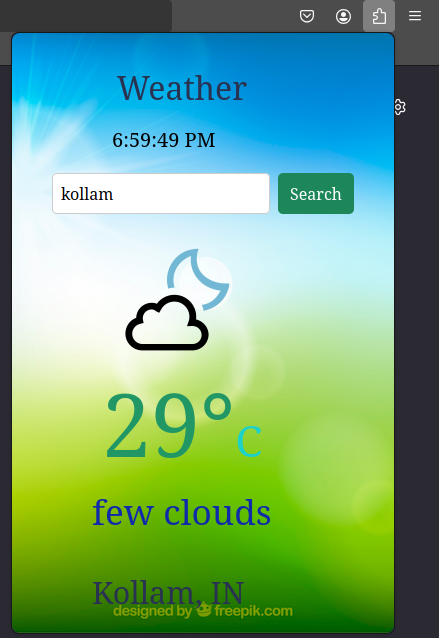
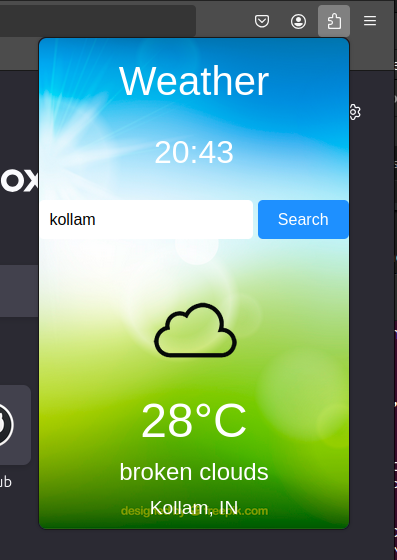
updated code

diff --git a/Task -07/index.js b/Task -07/index.js
@@ -1,4 +1,3 @@
-
 const iconElement = document.querySelector(".weather-icon");
 const tempElement = document.querySelector(".temperature-value p");
 const descElement = document.querySelector(".temperature-description p");
@@ -6,52 +5,18 @@ const locationElement = document.querySelector(".location p");
 const notificationElement = document.querySelector(".notification");
 const searchInput = document.querySelector("#search-input");
 const searchButton = document.querySelector("#search-button");
+const timeElement = document.querySelector(".time p");
 
 const weather = {};
-weather.temperature = {
-  unit: "celsius",
-};
 
 const KELVIN = 273;
 const key = "82005d27a116c2880c8f0fcb866998a0";
 
-// Check if browser supports geolocation
-if ("geolocation" in navigator) {
-  navigator.geolocation.getCurrentPosition(setPosition, showError);
-} else {
-  notificationElement.style.display = "block";
-  notificationElement.innerHTML = "<p>Browser doesn't support geolocation</p>";
-}
-
-// Set user position
-function setPosition(position) {
-  let latitude = position.coords.latitude;
-  let longitude = position.coords.longitude;
-
-  getWeatherByCoords(latitude, longitude);
-}
-
-// Show error if geolocation fails
-function showError(error) {
-  notificationElement.style.display = "block";
-  notificationElement.innerHTML = `<p>${error.message}</p>`;
-}
-
-// Fetch weather using latitude and longitude
-function getWeatherByCoords(latitude, longitude) {
-  let api = `http://api.openweathermap.org/data/2.5/weather?lat=${latitude}&lon=${longitude}&appid=${key}`;
-
-  fetchWeather(api);
-}
-
-// Fetch weather using city name
 function getWeatherByCity(city) {
-  let api = `http://api.openweathermap.org/data/2.5/weather?q=${city}&appid=${key}`;
-
+  const api = `http://api.openweathermap.org/data/2.5/weather?q=${city}&appid=${key}`;
   fetchWeather(api);
 }
 
-// Fetch weather data from API
 function fetchWeather(api) {
   fetch(api)
     .then((response) => response.json())
@@ -62,7 +27,7 @@ function fetchWeather(api) {
         return;
       }
       notificationElement.style.display = "none";
-      weather.temperature.value = Math.round(data.main.temp - KELVIN);
+      weather.temperature = Math.round(data.main.temp - KELVIN);
       weather.description = data.weather[0].description;
       weather.iconId = data.weather[0].icon;
       weather.city = data.name;
@@ -76,15 +41,20 @@ function fetchWeather(api) {
     });
 }
 
-// Display weather to UI
 function displayWeather() {
   iconElement.innerHTML = `<img src="icons/${weather.iconId}.png"/>`;
-  tempElement.innerHTML = `${weather.temperature.value}°<span>C</span>`;
+  tempElement.innerHTML = `${weather.temperature}°<span>C</span>`;
   descElement.innerHTML = weather.description;
   locationElement.innerHTML = `${weather.city}, ${weather.country}`;
 }
 
-// Search functionality
+function setTime() {
+  const now = new Date();
+  const hours = now.getHours().toString().padStart(2, "0");
+  const minutes = now.getMinutes().toString().padStart(2, "0");
+  timeElement.textContent = `${hours}:${minutes}`;
+}
+
 searchButton.addEventListener("click", () => {
   const city = searchInput.value.trim();
   if (city) {
@@ -93,19 +63,5 @@ searchButton.addEventListener("click", () => {
 });
 
 document.addEventListener("DOMContentLoaded", () => {
-  updateTime("time");
-});
-
-// Update the clock
-function updateTime(timeClass) {
-  const timeElement = document.querySelector(`.${timeClass}`);
-
-  function setTime() {
-    const now = new Date();
-    const formattedTime = now.toLocaleTimeString();
-    timeElement.textContent = ` ${formattedTime}`;
-  }
-
   setTime();
-  setInterval(setTime, 1000);
-}
+});

diff --git a/Task -07/style.css b/Task -07/style.css
@@ -1,130 +1,87 @@
-*{
-    font-family: "Rimouski";
-}
-
-body{
+* {
+    font-family: Arial, sans-serif;
+    box-sizing: border-box;
+  }
+  
+  body {
     background-color: #293251;
-    margin: 20px;
-    background-image: url("background.jpg");
+    background-image: url("background.jpg"); /* Add your background image */
     background-size: cover;
     background-repeat: no-repeat;
     background-position: center;
     background-attachment: fixed;
-}
-
-.app-title{
-    width: 300px;
-    height: 50px;
-    border-radius: 10px 10px 0 0;
-}
-
-.app-title p{
-    text-align: center;
-    font-size: 2.0em;
-    color: #293251;
-}
-
-.notification{
-    background-color: #f8d7da;
-    display: none;
-}
-
-.notification p{
-    color: #721c24;
-    font-size: 1.2em;
-    text-align: center;
-}
-
-.weather-icon{
-    width: 300px;
-    height: 128px;
-}
-
-.weather-icon img{
-    display: block;
-    margin-left: 80px;
-}
-
-.temperature-value{
-    width: 300px;
-    height:5px;
-}
-
-.temperature-value p{
-    color: #219766;
-    font-size: 5.5em;
-    text-align: center;
-    cursor: pointer;
-    margin-top: 0.1px;
-}
-
-.temperature-value span{
-    color: #1ed1c8;
-    font-size: 0.5em;
-}
-
-.temperature-description p{
-    color: #0f2baa;
-    font-size: 2.2em;
-    width: 40;
-    margin-top: 120px;
-    margin-left: 60px;
-}
-
-.location p{
-    color: #293251;
-    font-size: 1.9em;
-    margin-top: 0px;
-    margin-left: 60px;
-}
-.time{
-    font-size: 20px;
-    margin-top: 10px;
-    margin-left: 80px;
-}
-.loading {
-    font-style: italic;
-    color: gray;
-    margin-left: 60px;
-  }
-
-.search-bar {
+    color: white;
+    margin: 0;
+    padding: 0;
     display: flex;
+    flex-direction: column;
+    align-items: center;
     justify-content: center;
-    margin: 20px;
+    min-height: 100vh;
+    text-align: center;
+  }
+  
+  .app-title p {
+    font-size: 2.5em;
+    margin: 20px 0;
+  }
+  
+  .time p {
+    font-size: 2em; /* Adjust font size */
+    margin: 10px 0;
+  }
+  
+  .notification {
+    background-color: #f8d7da;
+    padding: 10px;
+    margin: 10px;
+    display: none;
+    color: #721c24;
+    border-radius: 5px;
+  }
+  
+  .search-bar {
+    margin: 20px 0;
   }
   
   #search-input {
-    width: 200px;
-    padding: 8px;
-    font-size: 16px;
+    padding: 10px;
+    font-size: 1em;
+    border: none;
     border-radius: 5px;
-    border: 1px solid #ccc;
   }
   
   #search-button {
-    padding: 8px 12px;
-    margin-left: 8px;
-    font-size: 16px;
+    padding: 10px 20px;
+    font-size: 1em;
     border: none;
-    background-color: #219766;
+    border-radius: 5px;
+    background-color: #1e90ff;
     color: white;
     cursor: pointer;
-    border-radius: 5px;
   }
   
-  #search-button:hover {
-    background-color: #1e875a;
+  .weather-container {
+    margin-top: 20px;
   }
   
- 
-
-
-
-
-
-
-
-
-
-
+  .weather-icon img {
+    width: 100px;
+    height: 100px;
+  }
+  
+  .temperature-value p {
+    font-size: 3em;
+    margin: 10px 0;
+  }
+  
+  .temperature-description p {
+    font-size: 1.5em;
+    margin: 10px 0;
+  }
+  
+  .location p {
+    font-size: 1.2em;
+    margin: 10px 0;
+  }
+  

diff --git a/Task -07/index.html b/Task -07/index.html
@@ -2,6 +2,7 @@
 <html lang="en">
 <head>
   <meta charset="UTF-8">
+  <meta name="viewport" content="width=device-width, initial-scale=1.0">
   <title>Weather App</title>
   <link rel="stylesheet" href="style.css">
 </head>
@@ -9,28 +10,31 @@
   <div class="app-title">
     <p>Weather</p>
   </div>
+  
   <div class="time">
-    <p class="loading">Loading...</p>
+    <p>Loading time...</p>
   </div>
+  
   <div class="notification"></div>
-
+  
   <div class="search-bar">
-    <input type="text" id="search-input" placeholder="Enter city name" />
+    <input type="text" id="search-input" placeholder="Enter city name">
     <button id="search-button">Search</button>
   </div>
-
-  <div class="weather-icon">
-    <img src="icons/unknown.png" alt="">
-  </div>
-
-  <div class="temperature-value">
-    <p>- °<span>C</span></p>
-  </div>
-  <div class="temperature-description">
-    <p>-</p>
-  </div>
-  <div class="location">
-    <p>-</p>
+  
+  <div class="weather-container">
+    <div class="weather-icon">
+      <img src="icons/unknown.png" alt="Weather icon">
+    </div>
+    <div class="temperature-value">
+      <p>- °<span>C</span></p>
+    </div>
+    <div class="temperature-description">
+      <p>-</p>
+    </div>
+    <div class="location">
+      <p>-</p>
+    </div>
   </div>
 
   <script src="index.js"></script>
